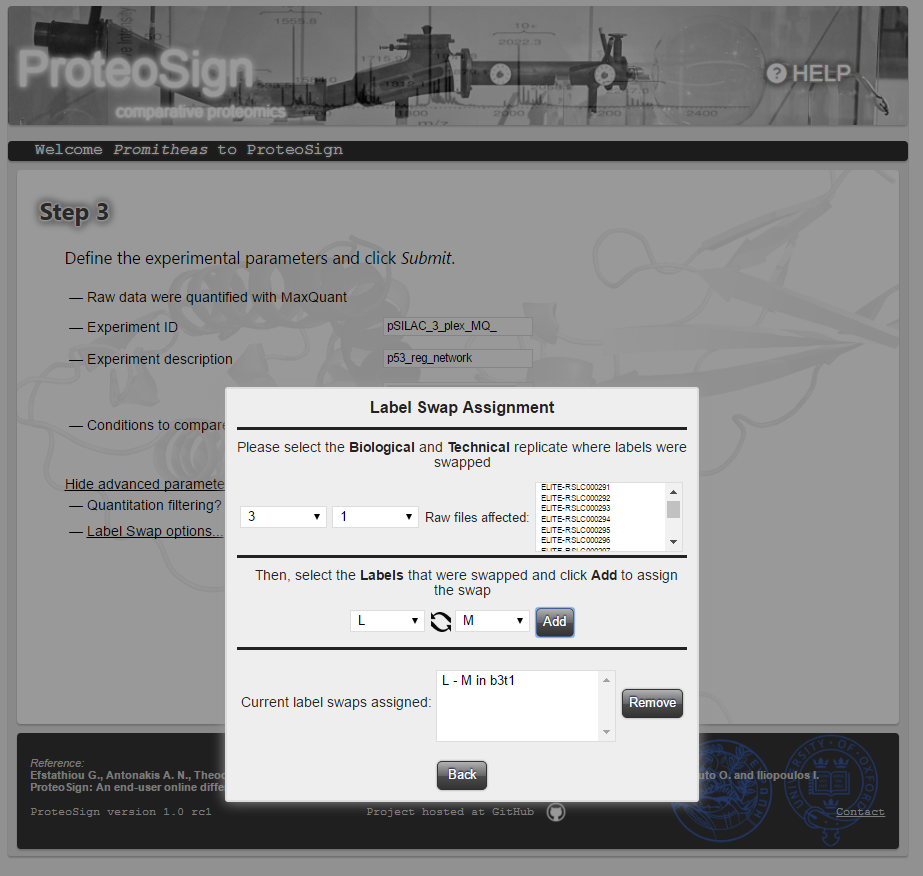
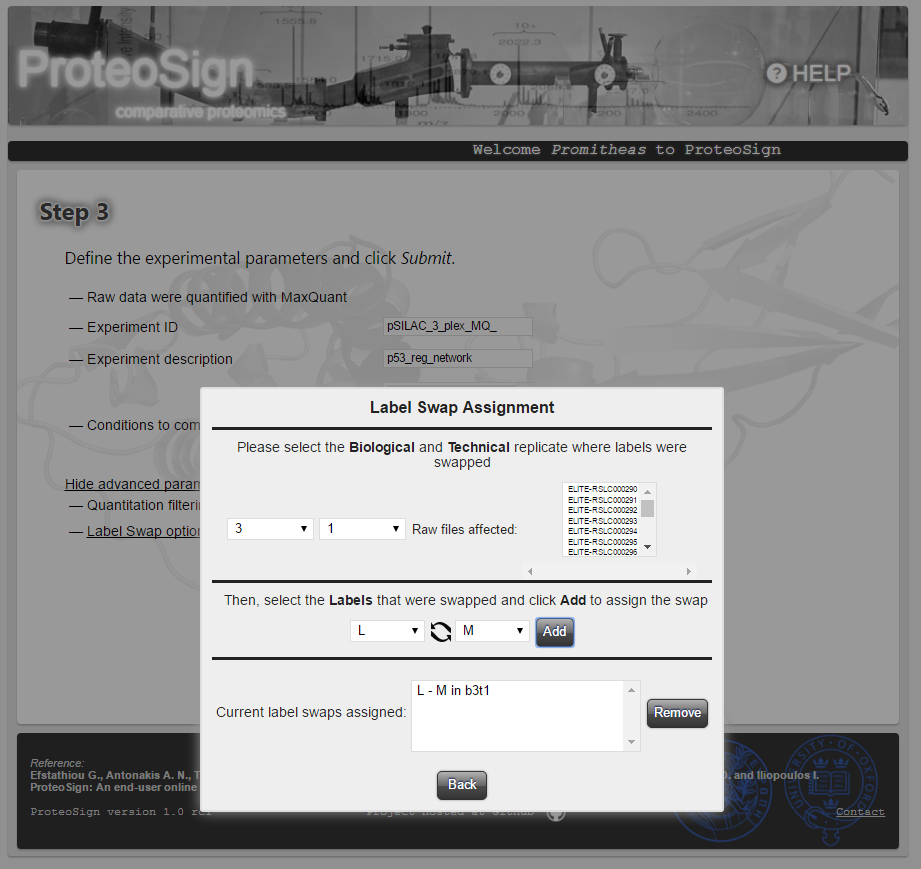
various bugfixes
Bugfixes mainly concerning multi-browser support

diff --git a/js/script.js b/js/script.js
@@ -485,7 +485,7 @@ var onLSAddclick = function()
 	 to_add2[1] = ArrayOfIndices;
 	 to_add2[2] = [myfirstlabel, myseclabel];
 	 LS_counters_per_Add.push(to_add2);
-	 console.log(LabelSwapArray);	
+	 // console.log(LabelSwapArray);	
 	 $("#LSLabelSwaps").append("<option value='" + my_desc + "'>" + my_desc + "</option>");
 	 setItemAttrColor("#LSLabelSwaps", "border", "#DDDDDD");
 }
@@ -525,7 +525,7 @@ var onLSRemoveclick = function()
 	{
 		if($.inArray($(my_option).val(), options_to_erase) == -1)
 		{
-			console.log($(my_option).val());
+			// console.log($(my_option).val());
 			options_that_remain.push($(my_option).val());
 		}
 	});
@@ -549,7 +549,12 @@ var inputChCheck = function (e, repatt, maxCharacters) {
    var key = theEvent.keyCode || theEvent.which;
    var re = new RegExp(repatt);
    var srcelem = e.target || e.srcElement;
-   var txt = srcelem.value + String.fromCharCode(e.which);
+   var carposition = srcelem.selectionStart; // the carret position
+   if (srcelem.selectionEnd - srcelem.selectionStart >= 1)
+   {
+	   maxCharacters = 9999;
+   }
+   var txt = [srcelem.value.slice(0, carposition), String.fromCharCode(e.which), srcelem.value.slice(carposition)].join('');
    if (key === 8) {
       return;
    }
@@ -560,6 +565,39 @@ var inputChCheck = function (e, repatt, maxCharacters) {
 
 }
 
+var inputPasteCheck = function(e, repatt, maxCharacters)
+{
+	//this function makes sure that in case the user pastes data in a text box where character rules apply, the data will contain only valid characters
+	var re = new RegExp(repatt);
+	var srcelem = e.target || e.srcElement;
+	var carposition = srcelem.selectionStart; // the carret position
+	var clipboardData, pastedData;
+	e.preventDefault();
+	clipboardData = e.clipboardData || window.clipboardData;
+	pastedData = clipboardData.getData('Text'); //the data that the user tries to paste
+	if (pastedData == "") return;
+	//make sure that the data contain only valid characters, in case of invalid chars transform them to underscores
+	if (!re.test(pastedData))
+	{
+		pastedData = pastedData.replace(/[^a-zA-Z0-9]+/g, "_");
+	}
+	if(pastedData.slice(0,1) == "_")
+	{
+		pastedData = pastedData.slice(1);
+	}
+	var srcValue = srcelem.value;
+	if (srcelem.selectionEnd - srcelem.selectionStart >= 1)
+	{
+		srcValue = [srcValue.slice(0, srcelem.selectionStart), srcValue.slice(srcelem.selectionEnd)].join('');
+	}
+	//the text that will be produced will be:
+	var txt = [srcValue.slice(0, carposition), pastedData, srcValue.slice(carposition)].join('');
+	if(txt.length > maxCharacters)
+	{
+		txt = txt.slice(0, maxCharacters)
+	}
+	srcelem.value = txt;
+}
 var SwitchLFQList = function(e) {
    var theEvent = e || window.event;
    var srcelem = e.target || e.srcElement;
@@ -972,7 +1010,7 @@ var postParameters = function (params) {
    }).done(function (data, textStatus, jqXHR) {
 //if there was a server-side error alert.
       if (!data.success) {
-         alert("ERROR on SERVER: " + data.msg);
+         msgbox("ERROR on SERVER: " + data.msg);
       } else {
          postFireUpAnalysisAndWait();
       }
@@ -1648,7 +1686,7 @@ var postTestDatasetInfo = function (dataset_desc) {
    }).done(function (data, textStatus, jqXHR) {
 //if there was a server-side error alert.
       if (!data.success) {
-         alert("ERROR on SERVER: " + data.msg);
+         msgbox("ERROR on SERVER: " + data.msg);
       } else {
          uploadingFiles = data.queryres.file;
          if (uploadingFiles && uploadingFiles.length > 0) {
@@ -1710,11 +1748,11 @@ var postTestDatasetInfo = function (dataset_desc) {
 				  }
 				  if (data.queryres.used[i] == 0)
 				  {
-					  $(tds[0])["0"].style = "text-decoration: line-through";
-					  $(tds[1])["0"].style = "text-decoration: line-through";
-					  $(tds[2])["0"].style = "text-decoration: line-through";
-					  $(tds[3])["0"].style = "text-decoration: line-through";
-					  if (isLabelFree == true) $(tds[4])["0"].style = "text-decoration: line-through";
+					  $(tds[0]).css("text-decoration", "line-through");
+					  $(tds[1]).css("text-decoration", "line-through");
+					  $(tds[2]).css("text-decoration", "line-through");
+					  $(tds[3]).css("text-decoration", "line-through");
+					  if (isLabelFree == true) $(tds[4]).css("text-decoration", "line-through");
 				  }
                }
 			   if (typeof data.queryres.option !== "undefined")
@@ -1798,7 +1836,7 @@ var postTestDatasetInfo = function (dataset_desc) {
          }
       }
    }).fail(function (jqXHR, textStatus, errorThrown) {
-      alert("An AJAX error occurred: " + errorThrown);
+      msgbox("An AJAX error occurred: " + errorThrown);
    });
 }
 
@@ -1860,7 +1898,7 @@ var postTestDatasetsInfo = function () {
    }).done(function (data, textStatus, jqXHR) {
 //if there was a server-side error alert.
       if (!data.success) {
-         alert("ERROR on SERVER: " + data.msg);
+         msgbox("ERROR on SERVER: " + data.msg);
       } else if(data.queryres.desc) {
          var i = 1;
          $.each(data.queryres.desc, function (idx, dataset_desc)
@@ -1870,7 +1908,7 @@ var postTestDatasetsInfo = function () {
       }
 
    }).fail(function (jqXHR, textStatus, errorThrown) {
-      alert("An AJAX error occurred: " + errorThrown);
+      msgbox("An AJAX error occurred: " + errorThrown);
    });
 }
 
@@ -1923,7 +1961,7 @@ var add_raw_file_structure = function(tab_sep_string)
 				 $(items_frac).text(my_raw_file.fraction);
 				 if(my_raw_file.used == false)
 				 {
-					 $(items_tds[0])["0"].style = "text-decoration: line-through";
+					 $(items_tds[0]).css("text-decoration", "line-through");
 				 }
 				 return false;
 			 }
@@ -2113,7 +2151,7 @@ var gen_LSArray = function (struct) {
    {
 	   ret = "This run contains\tno label\tswaps\n"
    }
-   console.log("ret: " + ret);
+   // console.log("ret: " + ret);
    return ret;
 }
 
@@ -2269,6 +2307,7 @@ var dlgFadeoutInfo = function () {
 var label_context_menu;
 
 $(document).ready(function () {
+	
 	// 	document.getElementById("s2LFQConditionsNew").onkeydown = inputChCheck(event,'^(?!_)[a-zA-Z0-9_]+$',20);
    if(!AllowLS)  $("#s3showdivLabelSwapRow").hide();
    var forward_buttons = getItems("button.main", /s[0-9]+btnf/);
@@ -2337,7 +2376,7 @@ $(document).ready(function () {
 					 {
 						procProgram = "";
 						//Both MQ and PD files were uploaded:
-						alert("WARNING: Some of the files you uploaded are processed by MaxQuant and some by Proteome Discoverer, we are sorry to inform you that it is impossible to proceed.");
+						msgbox("WARNING: Some of the files you uploaded are processed by MaxQuant and some by Proteome Discoverer, we are sorry to inform you that it is impossible to proceed.");
 						$("#s2btnf").prop('disabled', true);
 						Files_valid = false;
 					 }
@@ -2358,7 +2397,7 @@ $(document).ready(function () {
 				 //If the user has uploaded more than one file from the same type alert them:
 				if ((procProgram == "MQ" && types_of_files_uploaded.filter(filterFunction).length > 2) 	|| (procProgram == "PD" && types_of_files_uploaded.filter(filterFunction).length > 1))
 				{
-					alert("WARNING: You uploaded too many files from " + procProgram + "! Please make sure you upload MultiConsensus files. Please refresh the current page and try again.");
+					msgbox("WARNING: You uploaded too many files from " + procProgram + "! Please make sure you upload MultiConsensus files. Please refresh the current page and try again.");
 					$("#s2btnf").prop('disabled', true);
 					Files_valid = false;
 				}
@@ -2372,7 +2411,7 @@ $(document).ready(function () {
 			}
 			else
 			{
-				alert("WARNING: At least one of the files chosen is oversized, we are sorry to inform you that it is impossible to proceed.");
+				msgbox("WARNING: At least one of the files chosen is oversized, we are sorry to inform you that it is impossible to proceed.");
 	         $("#s2btnf").prop('disabled', true);
 			}
       } else {
@@ -2544,11 +2583,11 @@ $(document).ready(function () {
             }
 			curr_used = true;
             rawfiles_structure.push({rawfile: $(items_tds[0]).text(), biorep: curr_biorep, techrep: curr_techrep, fraction: curr_fraction, used : curr_used});
-			$(items_tds[0])[0].style = "text-decoration: none";
-			$(items_tds[1])[0].style = "text-decoration: none";
-			$(items_tds[2])[0].style = "text-decoration: none";
-			$(items_tds[3])[0].style = "text-decoration: none";
-			if (isLabelFree == true) $(items_tds[4])[0].style = "text-decoration: none";
+			$(items_tds[0]).css("text-decoration", "none");
+			$(items_tds[1]).css("text-decoration", "none");
+			$(items_tds[2]).css("text-decoration", "none");
+			$(items_tds[3]).css("text-decoration", "none");
+			if (isLabelFree == true) $(items_tds[4]).css("text-decoration", "none");
             $(items_biorep).text(curr_biorep == 0 ? '-' : curr_biorep);
             $(items_techrep).text(curr_techrep == 0 ? '-' : curr_techrep);
             $(items_frac).text(curr_fraction == 0 ? '-' : curr_fraction);
@@ -2706,7 +2745,7 @@ $(document).ready(function () {
 						$.each(rawfiles_structure, function (idx, my_raw_file)
 						{
 							// console.log(my_raw_file.rawfile);
-							if(my_raw_file.rawfile == $(items_tds[0])["0"].textContent)
+							if(my_raw_file.rawfile == $(items_tds[0])[0].textContent)
 							{
 
 								my_raw_file.used = false;
@@ -2722,11 +2761,11 @@ $(document).ready(function () {
 						// console.log("stopped!");
 						// console.log("rawfiles_structure after delete");
 						// console.log(rawfiles_structure);
-						$(items_tds[0])["0"].style = "text-decoration: line-through";
-						$(items_tds[1])["0"].style = "text-decoration: line-through";
-						$(items_tds[2])["0"].style = "text-decoration: line-through";
-						$(items_tds[3])["0"].style = "text-decoration: line-through";
-						if (isLabelFree == true) $(items_tds[4])["0"].style = "text-decoration: line-through";
+						$(items_tds[0]).css("text-decoration", "line-through");
+						$(items_tds[1]).css("text-decoration", "line-through");
+						$(items_tds[2]).css("text-decoration", "line-through");
+						$(items_tds[3]).css("text-decoration", "line-through");
+						if (isLabelFree == true) $(items_tds[4]).css("text-decoration", "line-through");
 					}
 					set_s22btnf();
 					$('#rawfiles_tbl_allfiles tbody tr').removeClass('rawfiles_tbl_td_selected');
@@ -2744,7 +2783,7 @@ $(document).ready(function () {
 						$.each(rawfiles_structure, function (idx, my_raw_file)
 						{
 							// console.log(my_raw_file.rawfile);
-							if(my_raw_file.rawfile == $(items_tds[0])["0"].textContent)
+							if(my_raw_file.rawfile == $(items_tds[0])[0].textContent)
 							{
 								if(!(my_raw_file.biorep == '-' && my_raw_file.techrep == '-' && my_raw_file.fraction == '-'))
 								{
@@ -2763,11 +2802,11 @@ $(document).ready(function () {
 						// console.log("stopped!");
 						// console.log("rawfiles_structure after delete");
 						// console.log(rawfiles_structure);
-						$(items_tds[0])["0"].style = "text-decoration: none";
-						$(items_tds[1])["0"].style = "text-decoration: none";
-						$(items_tds[2])["0"].style = "text-decoration: none";
-						$(items_tds[3])["0"].style = "text-decoration: none";
-						if (isLabelFree == true) $(items_tds[4])["0"].style = "text-decoration: none";
+						$(items_tds[0]).css("text-decoration", "none");
+						$(items_tds[1]).css("text-decoration", "none");
+						$(items_tds[2]).css("text-decoration", "none");
+						$(items_tds[3]).css("text-decoration", "none");
+						if (isLabelFree == true) $(items_tds[4]).css("text-decoration", "none");
 					}
 					set_s22btnf();
 					$('#rawfiles_tbl_allfiles tbody tr').removeClass('rawfiles_tbl_td_selected');
@@ -2940,7 +2979,7 @@ $(document).ready(function () {
 	//from http://stackoverflow.com/questions/8641729/how-to-avoid-the-need-for-ctrl-click-in-a-multi-select-box-using-javascript
 	$("#conditions_list").mousedown(function(e){
 		e.preventDefault();
-		if (event.which == 3)
+		if (e.which == 3)
 		{
 			return;
 		}

diff --git a/index.html b/index.html
@@ -85,8 +85,8 @@
 					<div id="expstructcoord" style="margin: 10px; margin-top: 30px; width: 30%; position: relative;" class="expstructcoord_tbl">
                   <div style="margin-top: 1em">Experimental structure coordinate</div>
                   <div style="position: absolute; top: 40%; left: 0; right: 0;">
-                     <input id="expstructcoord_biorep" type="text" placeholder="Bio. replicate #" onkeypress="inputChCheck(event, '^[0-9]+$', 2)">
-                     <input id="expstructcoord_techrep" type="text" placeholder="Tech. replicate #" onkeypress="inputChCheck(event, '^[0-9]+$', 2)">
+                     <input id="expstructcoord_biorep" type="text" placeholder="Bio. replicate #" onkeypress="inputChCheck(event, '^[0-9]+$', 2)" onpaste="event.preventDefault();">
+                     <input id="expstructcoord_techrep" type="text" placeholder="Tech. replicate #" onkeypress="inputChCheck(event, '^[0-9]+$', 2)" onpaste="event.preventDefault();">
                   </div>
                   <div style="position: absolute; bottom: 1em; left: 0; right: 0;">
                      <button type="button" class="main inline" style="font-size: 80%; padding: 5px 15px 6px 15px;" id="btnAssignExpStructCoord">Assign</button>
@@ -115,7 +115,7 @@
 						<tr>
 							<td>&#8212 Experiment ID</td>
 							<td></td>
-							<td><input data-required="true" name="expid" type="text" onkeypress="inputChCheck(event,'^(?!_)[a-zA-Z0-9_]+$',25)" placeholder="Character rules apply"/></td>
+							<td><input data-required="true" name="expid" type="text" onkeypress="inputChCheck(event,'^(?!_)[a-zA-Z0-9_]+$',25)" onpaste="inputPasteCheck(event,'^(?!_)[a-zA-Z0-9_]+$',25);" placeholder="Character rules apply"/></td>
 							<td></td>
 							<td></td>
 							<td></td>
@@ -123,7 +123,7 @@
 						<tr>
 							<td>&#8212 Experiment description </td>
 							<td></td>
-							<td><input data-required="true" name="exptpoint" type="text" onkeypress="inputChCheck(event,'^(?!_)[a-zA-Z0-9_]+$',20)" placeholder="Character rules apply"/></td>
+							<td><input data-required="true" name="exptpoint" type="text" onkeypress="inputChCheck(event,'^(?!_)[a-zA-Z0-9_]+$',20)" onpaste="inputPasteCheck(event,'^(?!_)[a-zA-Z0-9_]+$',20);" placeholder="Character rules apply"/></td>
 							<td></td>
 							<td></td>
 							<td></td>
@@ -248,7 +248,7 @@
 		<div class="expparamsDlg" id="s2LFQConditions" style="width: 340px">
 			<div style="text-align: center;">
 				<span style="font-size: 85%;">Select a condition to assign to the selected raw files<br> or type a <strong>New condition</strong> in the box below.</span>
-				<input id="s2LFQConditionsNew" placeholder="New Condition" style="width:70%" onkeypress="inputChCheck(event,'^(?!_)[a-zA-Z0-9_]+$',10);" onkeyup="SwitchLFQList(event);"></input>
+				<input id="s2LFQConditionsNew" placeholder="New Condition" style="width:70%" onkeypress="inputChCheck(event,'^(?!_)[a-zA-Z0-9_]+$',10);" onkeyup="SwitchLFQList(event);" onpaste="inputPasteCheck(event,'^(?!_)[a-zA-Z0-9_]+$',10);"></input>
 				<select id="s2LFQConditionsList" style="width:70%">
 				</select><br>
 			</div>
@@ -272,14 +272,14 @@
 		<div class="expparamsDlg" id="condsadvancedDlg" style="width: 350px">
 			<div style="text-align: center;">
 				<span style="font-size: 85%;">Please type the Name of the <strong>New condition:</strong></span>
-				<input id="s3AdvNewCondition" placeholder="New Condition" style="width:70%" onkeypress="inputChCheck(event,'^(?!_)[a-zA-Z0-9_]+$',10);"></input>
+				<input id="s3AdvNewCondition" placeholder="New Condition" style="width:70%" onkeypress="inputChCheck(event,'^(?!_)[a-zA-Z0-9_]+$',10);" onpaste="inputPasteCheck(event,'^(?!_)[a-zA-Z0-9_]+$',10);"></input>
 			</div>
 			<div class="buttonbar" style="text-align: center; position: relative; width: auto; margin-top: 1em">
 			<button type="button" class="main inline" style="font-size: 80%;" id="s3AdvancedOK">OK</button>
 			<button type="button" class="main inline" style="font-size: 80%; margin-left: 1em" id="s3AdvancedCancel">Cancel</button>
 			</div>	
 		</div>
-		<div class="expparamsDlg" id="divLabelSwap" style="width: 450px">
+		<div class="expparamsDlg" id="divLabelSwap" style="width: 500px">
 		<div name="LStitlediv" style="text-align: center; display: block; align-items: center; position: relative; border-bottom-style: solid; padding-bottom: 10px;">
 		<span ><strong>Label Swap Assignment</strong></span>
 		</div>
@@ -289,9 +289,11 @@
 					<select class="inline" id="LSbrep" style="min-width: 50px; width: 87px; align-items: center; vertical-align: middle;" onchange="onLSrepchange();" onclick="onLSrepclick();"></select>
 					<select class="inline" id="LStrep" style="min-width: 50px; width: 87px; align-items: center; vertical-align: middle;" onchange="onLSrepchange();" onclick="onLSrepclick();"></select>
 					<span class="inline" style="font-size: 80%; top:50%;">Raw files affected:</span>
-					<select name = "LSRawFilesList" class="LSRawFilesList inline" id = "LSRawFilesList" style="width: 33%; height:70px; align-items: center; vertical-align: middle;" multiple></select>
-				</div>
-			</div>
+					
+					<div class="inline" style="display: inline-block; width: 35%; height:100px; align-items: center; vertical-align: middle; overflow-x: scroll;"><select name = "LSRawFilesList" class="LSRawFilesList inline" id = "LSRawFilesList" style="width: auto; height: 90%" multiple></select>
+					</div>
+					</div>
+					</div>
 			<div name="LS2nddiv" style="text-align: center; display: block; border-bottom-style: solid;">
 				<span style="font-size: 85%; display:block; margin-top:10px; margin-bottom: 10px;">&nbsp Then, select the <strong>Labels</strong> that were swapped and click <strong>Add</strong> to assign the swap</span>
 				<select class="inline" id="LSfirstlabel" style="min-width: 50px; width: 75px; vertical-align: middle;" onchange="onLSlabelchange();"></select>
@@ -301,7 +303,7 @@
 			</div>
 			<div name="LS3rddiv" style="text-align: center; display: block; padding-top: 10px;">
 				<span style="font-size: 85%; vertical-align: middle;">Current label swaps assigned:</span>
-				<select name = "LSLabelSwaps" class="LSLabelSwaps inline" id = "LSLabelSwaps" style="width: 40%; vertical-align: middle; margin-top: 10px;" multiple onclick="onLSLabelSwapsclick();"></select>
+				<select name = "LSLabelSwaps" class="LSLabelSwaps inline" id = "LSLabelSwaps" style="width: 46%; vertical-align: middle; margin-top: 10px;" multiple onclick="onLSLabelSwapsclick();"></select>
 				
 				<button type="button" class="main inline" style="font-size: 80%;" id="LSRemove" onclick="onLSRemoveclick();">Remove</button>
 			</div>
